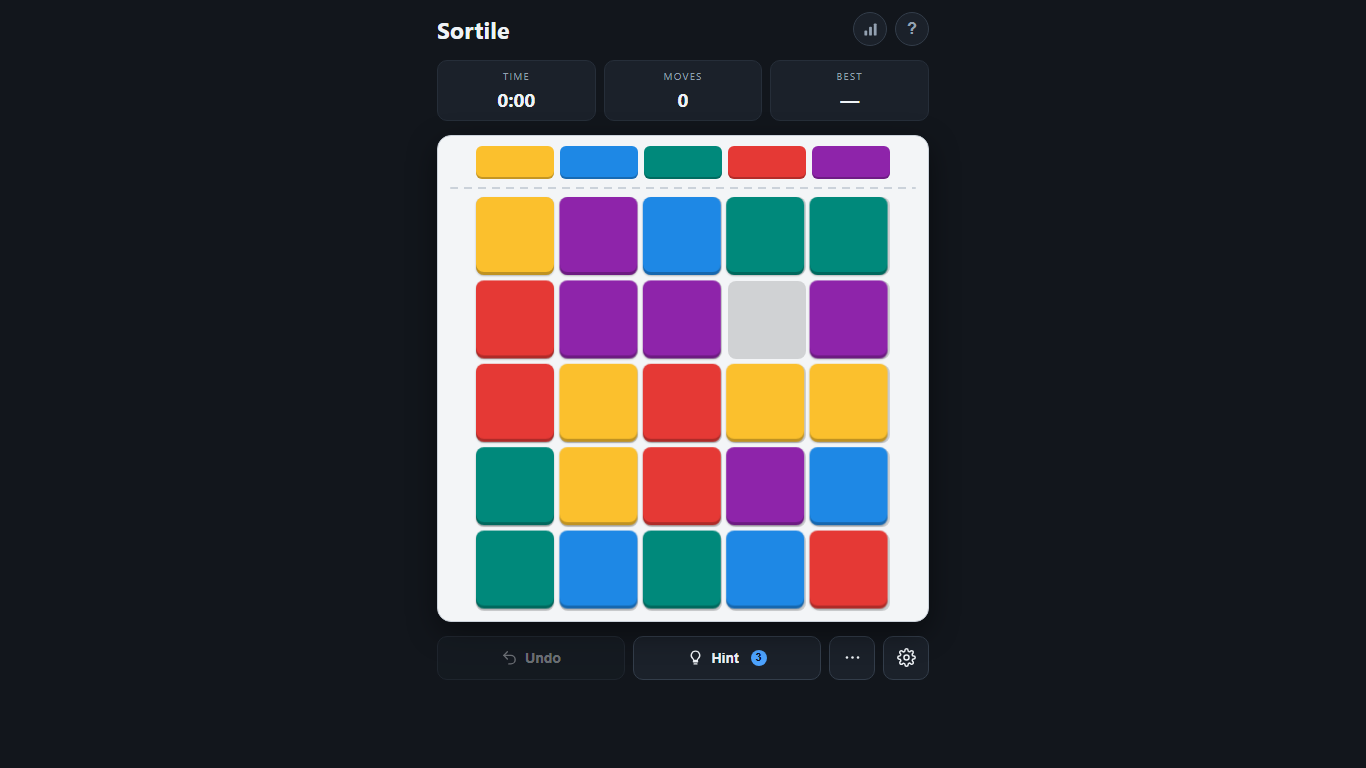
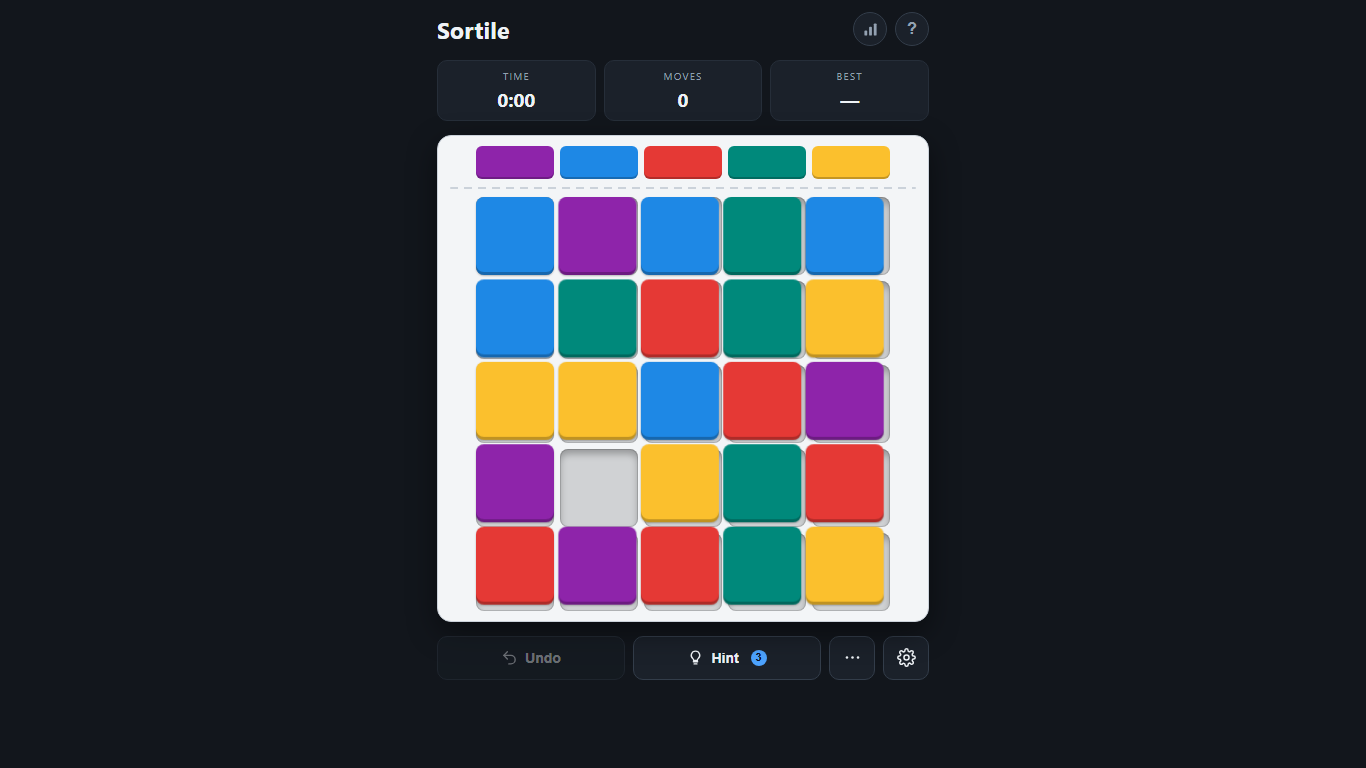
Make the empty slot visible and announce it to assistive tech
The gap is the one piece of state a player has to find every turn, and it
shipped at 1.25:1 against the frame -- a pale block rather than a hole. It
is also a pure CSS artefact with no element of its own, so nothing was
reported to assistive tech at all.

Draw it as a recess: a dark inner top edge and rim, the inverse of the
raised bottom lip on the blocks. That lands at 3.3:1 in all eight themes.
The fill alone is only ~1.4:1, so the new test screenshots the gap and
samples the darkest rendered pixel rather than asserting on the token,
which would have passed the broken version.

For assistive tech, tiles now carry their colour, row, column and whether
they can currently move, and a live region reports where the gap lands
after each move. No visible "Empty" label -- it would name an absence.

Also drops the redundant --slot overrides in light and paper, bumps the
service worker cache, and documents the raised-vs-recessed shadow rule
and two mutation-testing traps in AGENTS.md.

Changed region(s): [[0.3382, 0.1875, 0.6764, 0.8125]]

diff --git a/game.js b/game.js
@@ -113,6 +113,7 @@
   const el = {
     guide:    document.getElementById('guide'),
     board:    document.getElementById('board'),
+    boardStatus: document.getElementById('board-status'),
     time:     document.getElementById('stat-time'),
     moves:    document.getElementById('stat-moves'),
     best:     document.getElementById('stat-best'),
@@ -187,6 +188,10 @@
 
   function colourHex(i) { return palette()[i].hex; }
   function colourName(i) { return palette()[i].name; }
+
+  // Screen readers get no spatial sense of the grid from a flat list of buttons,
+  // so every block and the gap itself carry their 1-based coordinates.
+  function positionLabel(i) { return `row ${rowOf(i) + 1}, column ${colOf(i) + 1}`; }
 
   function applyTheme() {
     const root = document.documentElement;
@@ -647,6 +652,7 @@
   function renderBoard() {
     el.board.innerHTML = '';
     state.tiles = new Array(cellCount()).fill(null);
+    announcedGap = -1;
 
     // Static backing slots so empty cells read as recesses in the frame.
     for (let i = 0; i < cellCount(); i++) {
@@ -668,7 +674,8 @@
       tile.dataset.index = String(i);
       tile.dataset.colour = String(colour);
       tile.textContent = el.symbols.checked ? SYMBOLS[colour] : '';
-      tile.setAttribute('aria-label', colourName(colour));
+      // aria-label is owned by refreshTileState, which runs at the end of this
+      // function - it needs the movable state, which changes every move.
       tile.addEventListener('click', () => {
         if (fromSwipe()) return;
         slideTo(Number(tile.dataset.index), true);
@@ -780,6 +787,10 @@
     });
   }
 
+  // Reset so the next refresh always re-announces, even if a new puzzle happens
+  // to drop the gap on the square it was already on.
+  let announcedGap = -1;
+
   function refreshTileState() {
     const showHints = el.hints.checked;
     const gapRow = rowOf(state.gap);
@@ -791,7 +802,15 @@
       tile.classList.toggle('is-movable', movable && !state.solved);
       const wrong = Number(tile.dataset.colour) !== state.guide[colOf(i)];
       tile.classList.toggle('is-wrong', showHints && wrong && !state.solved);
+
+      const label = `${colourName(Number(tile.dataset.colour))}, ${positionLabel(i)}`;
+      tile.setAttribute('aria-label', movable && !state.solved ? `${label}, movable` : label);
     });
+
+    if (announcedGap !== state.gap && el.boardStatus) {
+      announcedGap = state.gap;
+      el.boardStatus.textContent = `Empty slot ${positionLabel(state.gap)}.`;
+    }
 
     el.board.classList.toggle('is-solved', state.solved);
     el.undo.disabled = state.history.length === 0 || state.solved;

diff --git a/styles.css b/styles.css
@@ -156,7 +156,6 @@
   --gold: #9a6b00;
   --board-shadow: 0 8px 24px rgba(15, 26, 41, 0.14);
   --wash: rgba(0, 0, 0, 0.06);
-  --slot: rgba(0, 0, 0, 0.10);
 }
 
 [data-appearance="paper"] {
@@ -179,7 +178,6 @@
   --gold: #8a6100;
   --board-shadow: 0 8px 24px rgba(60, 45, 20, 0.16);
   --wash: rgba(0, 0, 0, 0.06);
-  --slot: rgba(0, 0, 0, 0.10);
 }
 
 * { box-sizing: border-box; }
@@ -272,6 +270,20 @@ body {
   font-variant-numeric: tabular-nums;
 }
 
+/* Text for assistive tech only. Kept out of the layout entirely so the board's
+   size maths (which measures real elements) never sees it. */
+.sr-only {
+  position: absolute;
+  width: 1px;
+  height: 1px;
+  margin: -1px;
+  padding: 0;
+  overflow: hidden;
+  clip-path: inset(50%);
+  white-space: nowrap;
+  border: 0;
+}
+
 /* ---------- board ---------- */
 
 .stage { position: relative; }
@@ -328,12 +340,19 @@ body {
   z-index: 6;
 }
 
+/* The empty cell is the one thing a player has to find every turn, so it has to
+   read as a hole rather than a pale block. Tiles are raised with a dark lip at
+   the BOTTOM; a recess is the inverse - dark at the top, where the light would
+   not reach - plus a rim so the edge still has a boundary on a near-white frame. */
 .slot {
   position: absolute;
   width: var(--cell);
   height: var(--cell);
   border-radius: 8px;
   background: var(--slot);
+  box-shadow:
+    inset 0 5px 7px rgba(0, 0, 0, 0.28),
+    inset 0 0 0 1px rgba(0, 0, 0, 0.14);
 }
 
 .tile {

diff --git a/index.html b/index.html
@@ -94,6 +94,10 @@
     </div>
   </main>
 
+  <!-- Sighted players see the gap; without this, assistive tech never learns
+       where it moved to. role="application" means the app owns announcements. -->
+  <p id="board-status" class="sr-only" role="status" aria-live="polite"></p>
+
   <section class="controls">
     <div class="action-row">
       <button id="btn-undo" class="btn" type="button">

diff --git a/sw.js b/sw.js
@@ -1,4 +1,4 @@
-const CACHE = 'bcp-v21';
+const CACHE = 'bcp-v22';
 
 const ASSETS = [
   './',

diff --git a/AGENTS.md b/AGENTS.md
@@ -234,6 +234,26 @@ passed on every isolated re-run. If it fails alone, believe it. If it fails only
   `loadPrefs` validates against `PALETTES` and silently drops the player back to
   `classic`. Add a `PALETTE_ALIASES` entry, same as `APPEARANCE_ALIASES`.
 
+## Board traps
+
+- **The empty slot is game state, not decoration.** It is the one thing a player has to
+  find every turn, and it is a pure CSS artefact — a translucent fill plus inset shadows,
+  with no element of its own (`renderBoard` skips the gap, so there is nothing to label).
+  It shipped at **1.25:1** against the frame, i.e. very nearly invisible, because the
+  token value was reviewed but the rendering never was.
+- **Test the rendered pixels, not the token.** The fill on its own is only ~1.4:1; the rim
+  and top shadow carry the 3:1 that WCAG 1.4.11 wants. `tests/layout.test.mjs` screenshots
+  the gap, decodes it through the page's own canvas (no dependency), and takes the darkest
+  pixel. A fill-based assertion would have passed the broken version.
+- **Raised and recessed are opposite shadows.** Tiles read as raised via a dark lip at the
+  *bottom* (`inset 0 -3px 0`); the slot reads as a hole via a dark edge at the *top*.
+  Adding a light bottom highlight to the slot flips it straight back to looking like a
+  block — it was tried and rejected.
+- **`aria-label` on a tile is owned by `refreshTileState`, not `renderBoard`.** It carries
+  the movable state, which changes every move. Setting it in both places is how it rots.
+- **Assistive tech cannot see the gap at all** without `#board-status`. `role="application"`
+  on the board means the app owns every announcement, so nothing is reported for free.
+
 ## SVG icon traps
 
 The action row and the board menu use an inline `<symbol>` sprite at the top of
@@ -262,6 +282,23 @@ There is a test guarding this.
 - Multi-line `.Replace()` on file content is unreliable. Use a proper editor tool for
   precise CSS mutations rather than string surgery.
 - `&&` only chains native commands. Use `;` before PowerShell keywords.
+- **Double quotes interpolate `${...}`.** Passing a JS template-literal fragment such as
+  `", ${positionLabel(i)}"` as a double-quoted argument silently expands to `", "`, so a
+  mutation test edits the wrong text and appears to pass. Use single quotes for anything
+  containing `$`, and make the mutation script fail loudly when the token is not found.
+
+## Mutation testing
+
+Every new test in this repo has to be proven to fail when the behaviour is broken; six
+vacuous ones have been found here already.
+
+- **Never restore with `git checkout -- <file>` while the feature is uncommitted** — it
+  reverts the work along with the mutation. Copy the file to `$env:TEMP` first and restore
+  from that.
+- **Assert the mutation applied** before trusting the result. A here-string written as LF
+  will not match a CRLF file, and a swallowed `$` will not match either; both look like a
+  passing test on unmutated code.
+- Prefer newline-free single-line token swaps over multi-line replacements.
 
 ## Where things live
 

diff --git a/README.md b/README.md
@@ -116,7 +116,7 @@ out of the way.
 | Mode | ⚙ — Free play (endless random boards), Daily (one shared puzzle a day), or Levels (24-puzzle campaign) |
 | Difficulty | ⚙ — Easy (4 rows) / Normal (5) / Hard (6) — free play only |
 | Colours | ⚙ — Classic / Accessible / Candy / Jewel |
-| Appearance | ⚙ — Dark / Midnight / Slate |
+| Appearance | ⚙ — Dark / Midnight / Slate / Forest / Plum / Amber / Light / Paper |
 | Colour hints | ⚙ toggle — dims every block that is in the wrong column |
 | Symbols | ⚙ toggle — adds a shape to each colour for colourblind play |
 | Sound | ⚙ toggle — synthesised slide/bump/win tones, no audio files |
@@ -124,6 +124,15 @@ out of the way.
 
 Solving the board fires a confetti burst. Everything respects
 `prefers-reduced-motion`, which skips the confetti entirely.
+
+The empty slot is the one piece of state you need every turn, so it is drawn as a
+recess — a dark inner top edge and rim, the inverse of the raised lip on the blocks —
+and held above 3:1 against the frame in every theme by a test that samples the
+rendered pixels. It carries no "Empty" label: the gap is the only cell without a
+block, so the word would name an absence and add nothing. For assistive tech, where
+the gap genuinely is invisible, every block announces its colour, its row and column,
+and whether it can currently move, and a live region reports where the empty slot
+lands after each move.
 
 Best time is tracked per difficulty in `localStorage`, alongside your daily
 streak and the last 60 daily results.
